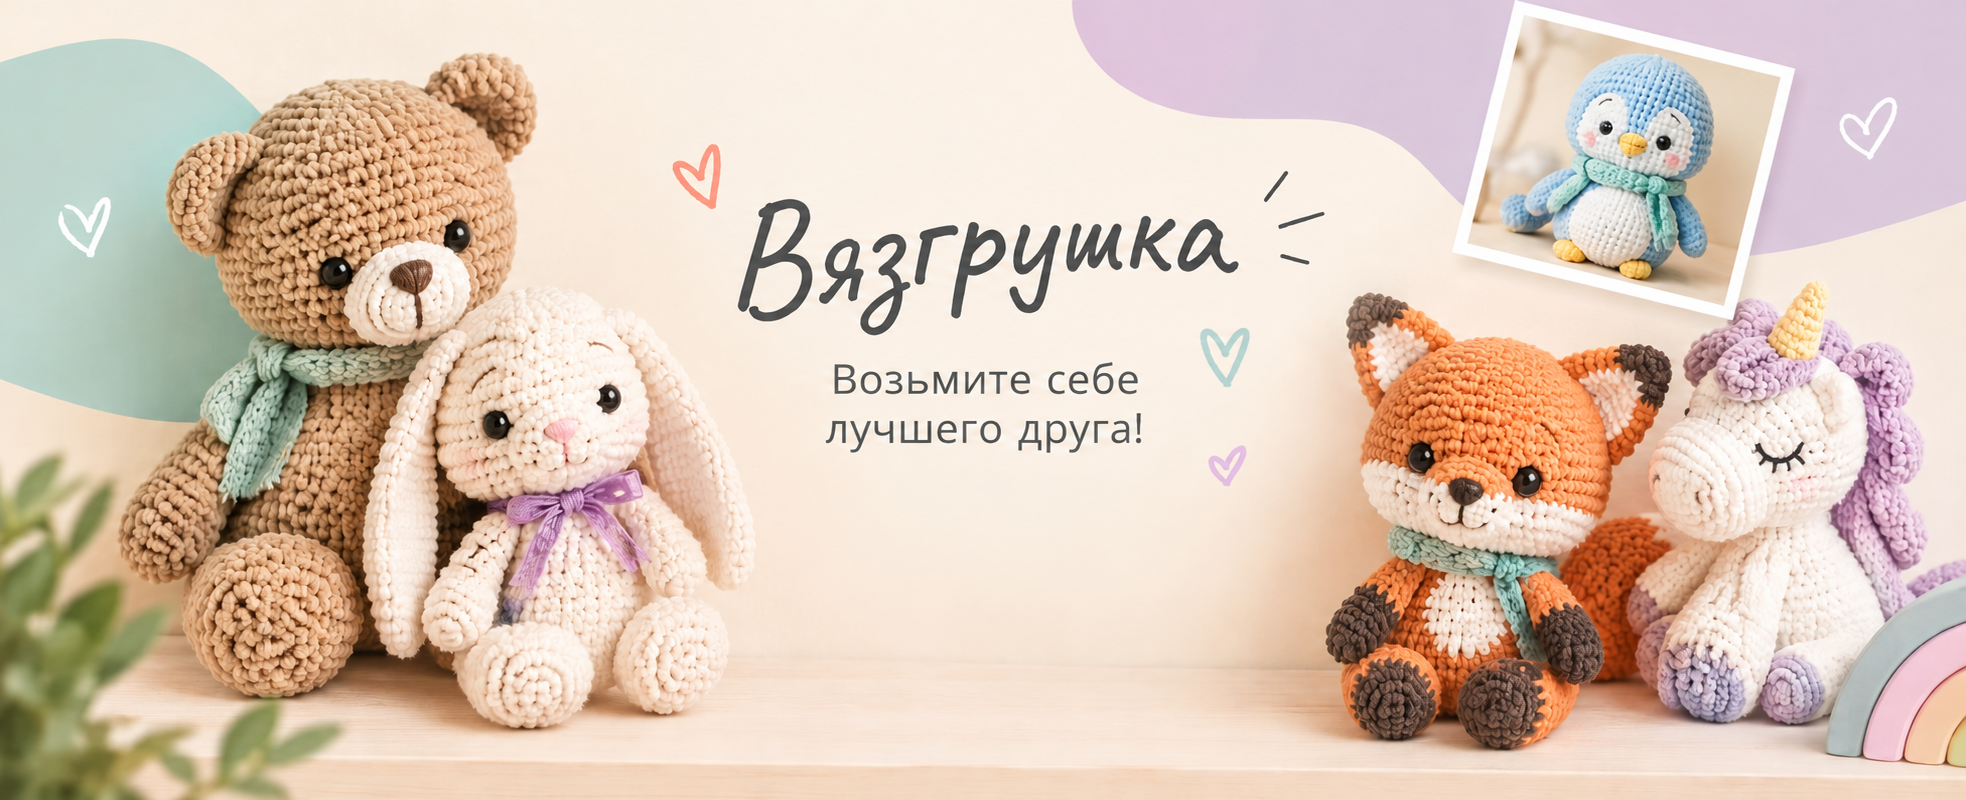
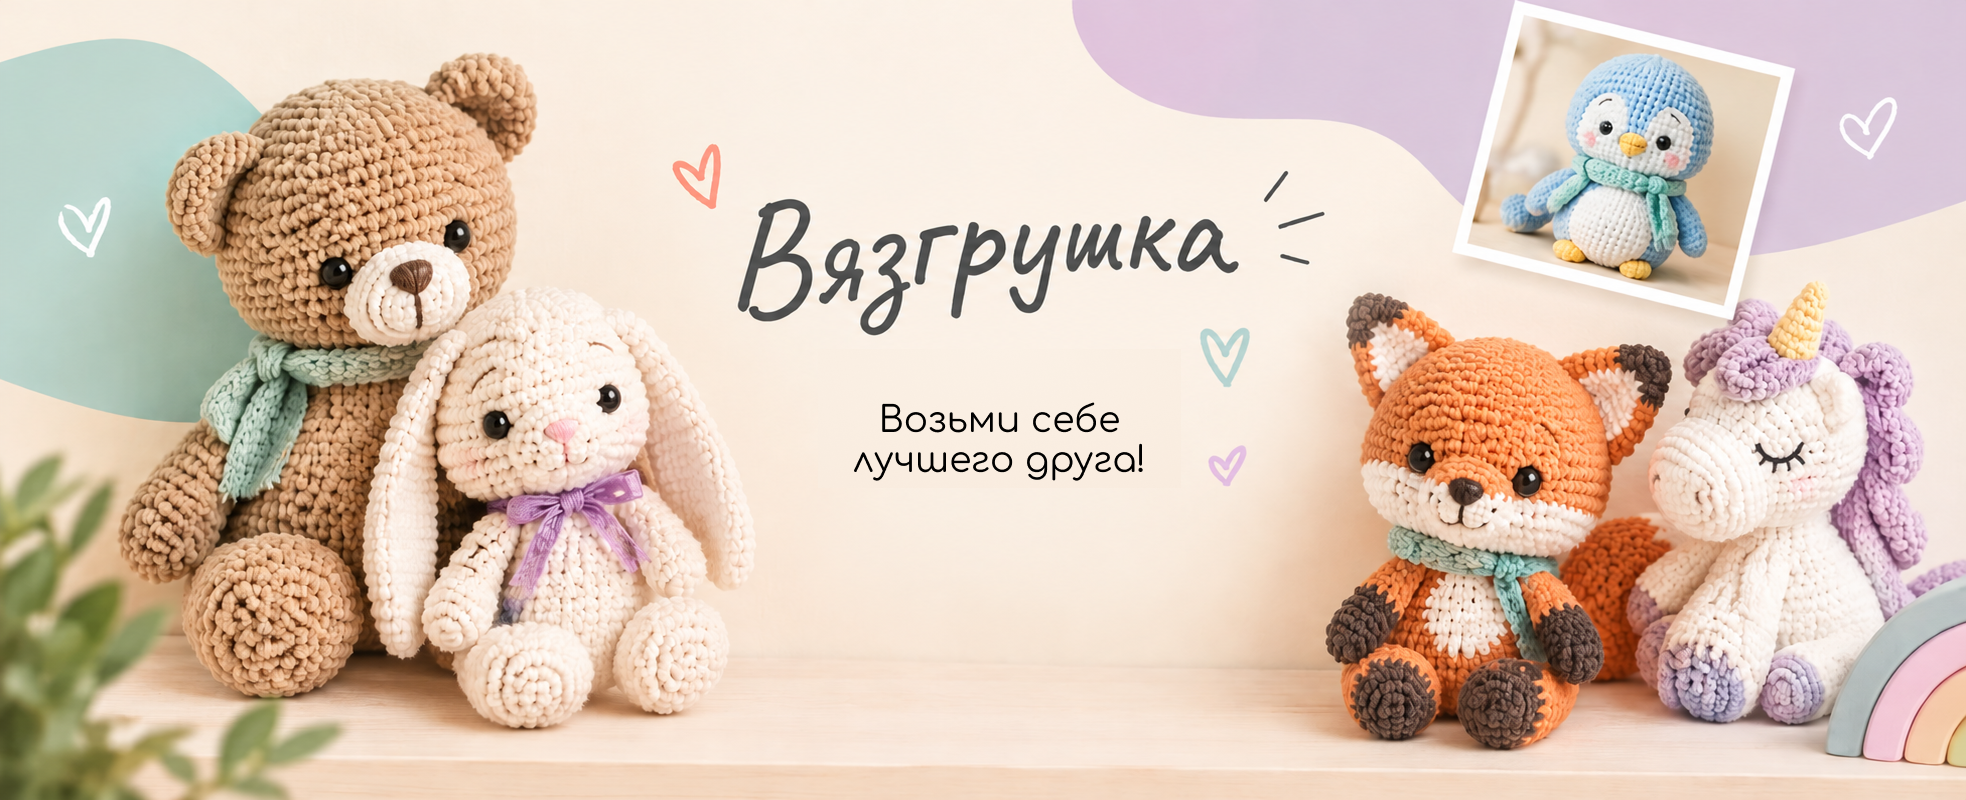
Изменение первого слайда в слайдере и добавление пагинации списку товаров в панели администратора

Changed region(s): [[0.4034, 0.4688, 0.5895, 0.5938]]

diff --git a/html/administration.php b/html/administration.php
@@ -96,7 +96,7 @@
         </table>
     </div>
 
-    <!-- Пагинация -->
+    <!-- Пагинация заказов -->
     <nav>
         <ul class="pagination justify-content-center" id="ordersPagination"></ul>
     </nav>
@@ -156,7 +156,7 @@
     <p>Нет товаров</p>
 <?php else: ?>
     <div class="table-responsive">
-        <table class="table table-bordered">
+        <table class="table table-bordered" id="productsTable">
             <thead class="table secondary-color">
                 <tr>
                     <th>ID</th>
@@ -167,9 +167,9 @@
                     <th>Действия</th>
                 </tr>
             </thead>
-            <tbody>
+            <tbody id="productsBody">
             <?php foreach ($products as $p): ?>
-                <tr>
+                <tr class="product-row">
                     <td><?= $p['id'] ?></td>
                     <td>
                         <?php if (!empty($p['image'])): ?>
@@ -192,10 +192,17 @@
             </tbody>
         </table>
     </div>
+
+    <!-- Пагинация товаров -->
+    <nav>
+        <ul class="pagination justify-content-center" id="productsPagination"></ul>
+    </nav>
+    <p class="text-center text-muted" id="productsPaginationInfo"></p>
 <?php endif; ?>
 
 
 <script>
+/* ============ Пагинация заказов + фильтры ============ */
 (function () {
     const PER_PAGE = 5;
     const tbody = document.getElementById('ordersBody');
@@ -229,9 +236,6 @@
             return true;
         });
 
-        // Сортировка по ID заказа:
-        //   asc  → сначала старые (1, 2, 3, ...)
-        //   desc → сначала новые  (13, 12, 11, ...)
         const sortDir = filterDate.value;
         filteredRows.sort((a, b) => {
             const idA = parseInt(a.dataset.id, 10);
@@ -244,7 +248,6 @@
     }
 
     function render() {
-        // Скрываем все
         allRows.forEach(r => r.style.display = 'none');
 
         const total = filteredRows.length;
@@ -255,10 +258,7 @@
         const end = start + PER_PAGE;
         const pageRows = filteredRows.slice(start, end);
 
-        // Показываем строки текущей страницы
         pageRows.forEach(r => r.style.display = '');
-
-        // Переставляем строки в DOM в нужном порядке
         pageRows.forEach(r => tbody.appendChild(r));
 
         renderPagination(totalPages);
@@ -316,5 +316,78 @@
     });
 
     applyFilters();
+})();
+
+/* ============ Пагинация товаров ============ */
+(function () {
+    const PER_PAGE = 5;
+    const tbody = document.getElementById('productsBody');
+    if (!tbody) return;
+
+    const allRows = Array.from(tbody.querySelectorAll('.product-row'));
+    const paginationEl = document.getElementById('productsPagination');
+    const paginationInfo = document.getElementById('productsPaginationInfo');
+
+    if (!paginationEl || !paginationInfo) return;
+
+    let currentPage = 1;
+
+    function render() {
+        allRows.forEach(r => r.style.display = 'none');
+
+        const total = allRows.length;
+        const totalPages = Math.max(1, Math.ceil(total / PER_PAGE));
+        if (currentPage > totalPages) currentPage = totalPages;
+
+        const start = (currentPage - 1) * PER_PAGE;
+        const end = start + PER_PAGE;
+
+        allRows.slice(start, end).forEach(r => r.style.display = '');
+
+        renderPagination(totalPages);
+        paginationInfo.textContent = total === 0
+            ? 'Ничего не найдено'
+            : `Найдено ${total}`;
+    }
+
+    function renderPagination(totalPages) {
+        paginationEl.innerHTML = '';
+
+        const makeLi = (label, page, disabled = false, active = false) => {
+            const li = document.createElement('li');
+            li.className = 'page-item' + (disabled ? ' disabled' : '') + (active ? ' active' : '');
+            const a = document.createElement('a');
+            a.className = 'page-link';
+            a.href = '#products-list';
+            a.textContent = label;
+            a.addEventListener('click', (e) => {
+                e.preventDefault();
+                if (disabled || active) return;
+                currentPage = page;
+                render();
+            });
+            li.appendChild(a);
+            return li;
+        };
+
+        paginationEl.appendChild(makeLi('«', currentPage - 1, currentPage === 1));
+
+        for (let i = 1; i <= totalPages; i++) {
+            if (totalPages > 7 && i !== 1 && i !== totalPages && Math.abs(i - currentPage) > 2) {
+                if (i === 2 || i === totalPages - 1) {
+                    const li = document.createElement('li');
+                    li.className = 'page-item disabled';
+                    li.innerHTML = '<span class="page-link">…</span>';
+                    paginationEl.appendChild(li);
+                }
+                continue;
+            }
+            paginationEl.appendChild(makeLi(i, i, false, i === currentPage));
+        }
+
+        paginationEl.appendChild(makeLi('»', currentPage + 1, currentPage === totalPages));
+    }
+
+    render();
 })();
 </script>
